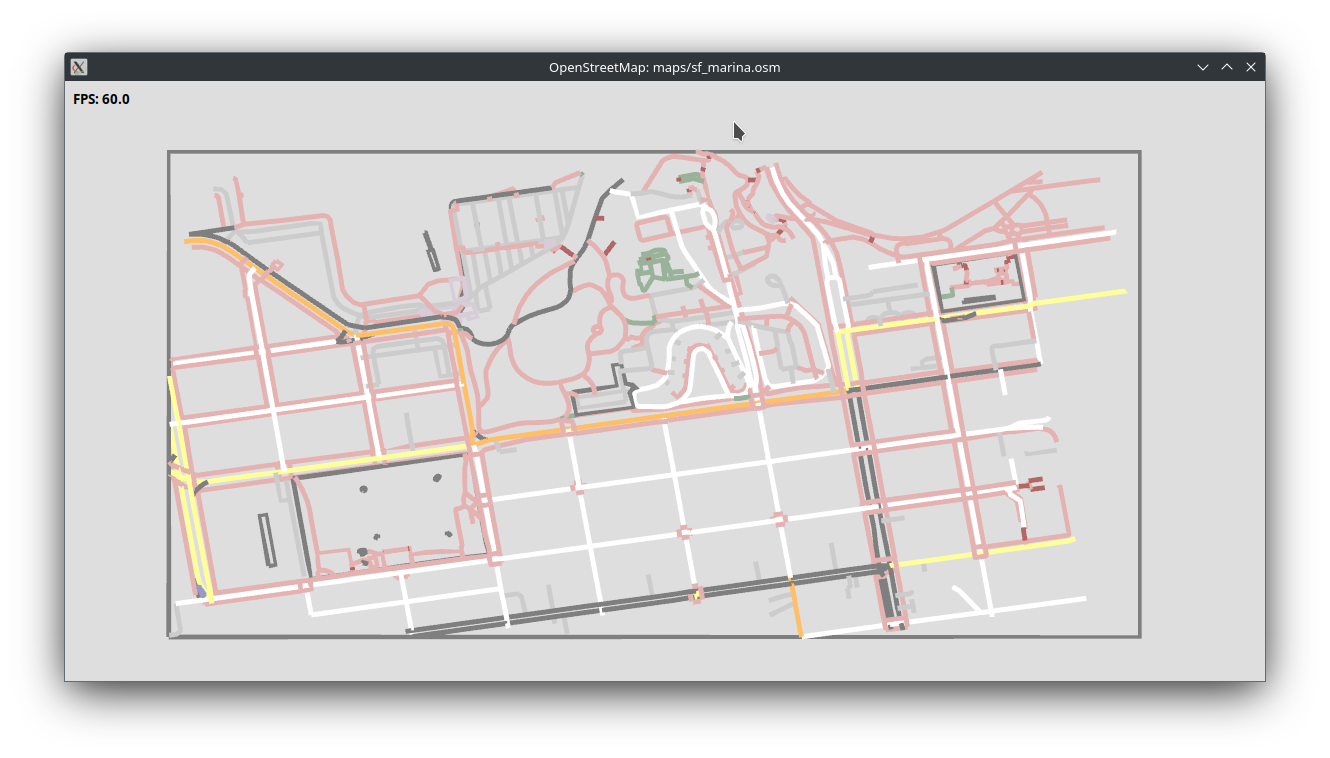
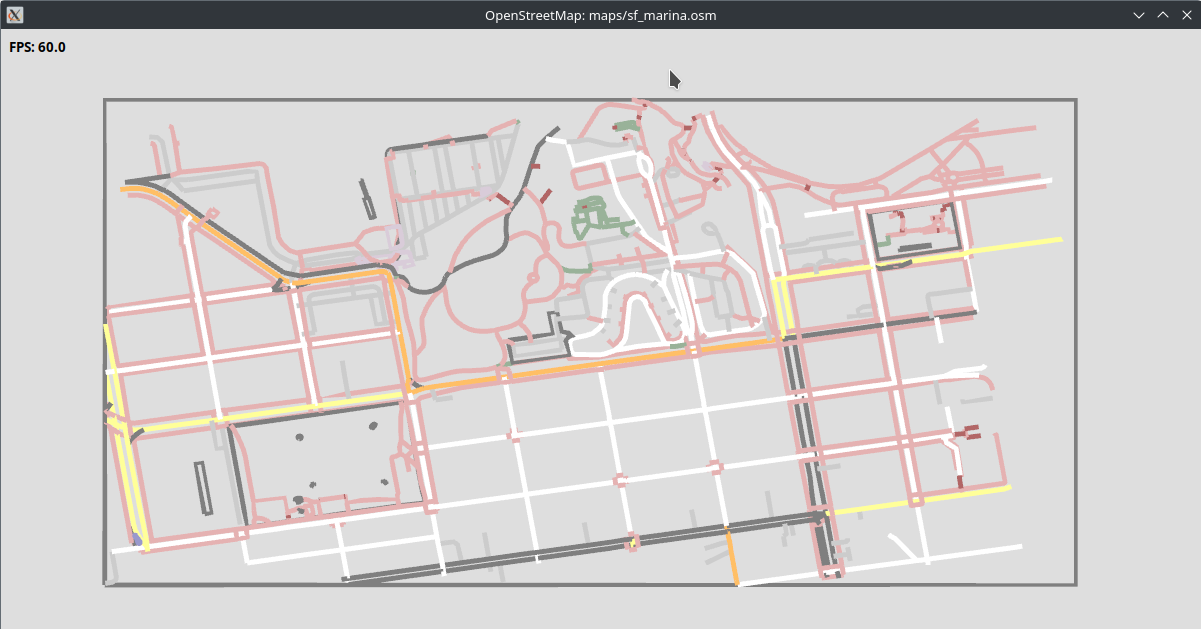
Rework the WebXR case study: copy, structure and images (#14)
* plans: start 260812_case_study_title_summary

* Rework the WebXR case study copy, structure and poster

Retitles the entry to "Robotics Data Replay in Augmented Reality", rewrites its
prose into lead/technical/examples paragraphs, and expands the highlights.

Collapses `summary` into `body: string[]` across all three case studies — with
the image now following the lead paragraph, `summary` was a second name for
`body[0]`. Rendered output is unchanged for every entry.

Adds the poster screenshot, cropped and re-encoded from a 1.7 MB PNG to a 74 KB
WebP.

* Crop black padding off the OSM screenshot

1330x758 to 1201x629, flush to the captured window frame. ImageMagick -trim
stops 9px in at any fuzz level because the window's drop shadow fades to black,
so the crop box came from a luminance profile instead.

---------

diff --git a/src/pages/CaseStudies.tsx b/src/pages/CaseStudies.tsx
@@ -5,17 +5,15 @@ interface CaseStudy {
   icon: LucideIcon;
   eyebrow: string;
   title: string;
-  /** Lead paragraph. */
-  summary: string;
-  /** Optional deeper technical paragraph. */
-  body?: string;
+  /** Prose paragraphs, rendered in order. The first is the lead; `image` follows it. */
+  body: string[];
   highlights: string[];
   tech: string[];
   repoUrl: string;
   demoUrl?: string;
   image?: string;
   imageAlt?: string;
-  /** Optional second image, shown after the technical body paragraph. */
+  /** Optional second image, shown after the last body paragraph. */
   bodyImage?: string;
   bodyImageAlt?: string;
 }
@@ -24,28 +22,33 @@ const caseStudies: CaseStudy[] = [
   {
     icon: Glasses,
     eyebrow: 'WebXR · Robotics · Meta Quest',
-    title: 'Robot Recordings in the Glasses',
-    summary:
-      'A WebXR app for Meta Quest that plays back Foxglove MCAP robot recordings in AR passthrough — scrub the timeline, walk around the robot, and grab the scene to reposition it in your room. It also records headset and controller poses back out to MCAP for analysis alongside the robot data.',
-    body:
-      'The hard part is throughput: these recordings are hundreds of megabytes, and a headset has a mobile GPU and a 72 Hz frame budget to protect. The reader streams MCAP chunks in a Web Worker with preloading, so decoding never blocks the render loop, and cloud recordings download through a Cloudflare Worker relay that fetches only the topics you selected and caches them on-device. ROS 1 and protobuf datasets both decode: a 486 MB quadruped recording plays back with the Spot URDF posed from /tf and /joint_states and five camera streams projected in 3D, and a 718 MB robot-arm recording opens on the headset in half a second. On desktop the app installs IWER over navigator.xr — chosen by session capability, never by hostname — so a visitor without a headset still gets a drivable demo instead of a dead button.',
+    title: 'Robotics Data Replay in Augmented Reality',
+    body: [
+      'A WebXR app for Meta Quest that plays back Foxglove robot recordings in AR passthrough — walk around the robot, scrub the timeline, and reposition the scene in your room. It is a direct overlay of robotic data on top of reality.',
+      'The hard part is throughput: these recordings run to hundreds of megabytes, while the headset brings a mobile GPU, limited bandwidth, and a 72 Hz frame budget that cannot slip without making the viewer queasy. Chunks decode off the render loop, so frame rate never pays for the data, and only the topics you select are pulled from the Foxglove server and cached on-device. On desktop the app runs in an emulated AR environment, so anyone without a headset can try it.',
+      'Known Examples: a quadruped — a 486 MB ROS 1 recording of Boston Dynamics’ Spot, its URDF posed live from transform frames while five camera streams project into the scene around it; autonomous manipulation — Foxglove’s 718 MB protobuf DROID arm dataset, which opens on the headset in half a second and renders its 27 transform frames in AR; and a dancing humanoid, playing back in the same viewer with no per-dataset code.',
+    ],
     highlights: [
-      'In-headset AR playback of Foxglove MCAP recordings with timeline scrubbing and grab-to-move alignment.',
-      'Streaming MCAP reader in a Web Worker with preload, keeping large files off the render thread.',
-      'Cloudflare Worker relay streams only the selected topics from Foxglove cloud storage, with on-device caching.',
-      'ROS 1 and protobuf decoding: URDF models posed from /tf and /joint_states, plus projected camera streams.',
-      'Emulated WebXR runtime (IWER) on desktop, so the deployed site is a working demo without hardware.',
+      'AR passthrough playback of Foxglove MCAP recordings, with timeline scrubbing and grab-to-move alignment for pinning the scene to a spot on the floor.',
+      'Streaming MCAP reader runs in a Web Worker with chunk preloading, so decoding a 700 MB recording never stalls the render loop.',
+      'A deployed Cloudflare Worker relay pulls only the selected topics out of Foxglove cloud storage — token-authenticated, with layouts and topic lists cached on-device for instant reopening.',
+      'Both MCAP encodings decode in-browser — ROS 1 and protobuf — with URDF models posed from /tf and /joint_states and camera images projected using Foxglove’s own camera model.',
+      'Frame-time readout in the in-headset HUD, so a performance regression is visible while wearing the device rather than after the fact.',
+      'Desktop visitors get an emulated WebXR runtime (IWER) installed over navigator.xr — selected by session capability rather than hostname, so a real headset is never emulated over.',
     ],
     tech: ['TypeScript', 'React Three Fiber', '@react-three/xr', 'WebXR', 'Foxglove MCAP', 'Cloudflare Workers', 'Vite'],
     repoUrl: 'https://github.com/benbatya/webxr-robo-viz',
     demoUrl: 'https://benbatya.github.io/webxr-robo-viz/',
+    image: '/case-studies/webxr_poster.webp',
+    imageAlt: 'In-headset capture of a Spot recording replayed in AR: the quadruped drawn with per-link transform axes, a projected camera stream beside it, and floating Transforms and playback panels.',
   },
   {
     icon: Map,
     eyebrow: 'Graphics · GPU Compute',
     title: 'Rendering OpenStreetMap on the GPU',
-    summary:
+    body: [
       'A C++/OpenGL renderer that loads large OpenStreetMap extracts and draws them efficiently by pushing geometry generation onto the GPU. A compute shader extrudes road "ways" into triangulated meshes in parallel, so even large maps render smoothly without a CPU bottleneck.',
+    ],
     highlights: [
       'Compute shader extrudes OSM ways into triangle meshes directly on the GPU.',
       'Two-stage parsing with libosmium: scan ways first, then load only the nodes they reference — keeping memory low for large extracts.',
@@ -60,8 +63,9 @@ const caseStudies: CaseStudy[] = [
     icon: Zap,
     eyebrow: 'Embedded · Energy Monitoring',
     title: 'Solar Time-of-Use Metering',
-    summary:
+    body: [
       'A home energy-monitoring app that logs and displays Time-of-Use statistics for a solar (PV) home. It runs continuously on a Raspberry Pi, polling a Shelly 3EM energy meter over the local network to gather power-usage data for tracking and billing.',
+    ],
     highlights: [
       'Polls a Shelly 3EM three-phase meter over the LAN for live power readings.',
       'Runs headless on a Raspberry Pi, with start/stop/deploy scripts for continuous operation.',
@@ -74,10 +78,10 @@ const caseStudies: CaseStudy[] = [
     icon: Sparkles,
     eyebrow: 'Rust · WebAssembly · WebGL',
     title: 'Deep-Zoom Fractal Explorer',
-    summary:
+    body: [
       'An interactive Julia-set explorer that stays razor-sharp at extreme zoom depths — far beyond where ordinary double-precision math falls apart. The heavy math runs in Rust compiled to WebAssembly, while rendering happens per-pixel on the GPU through WebGL2.',
-    body:
       'Precision is the whole game. The view center is stored in arbitrary-precision floats (dashu-float’s DBig), and the working precision scales automatically with zoom depth — roughly 20 digits at the default view, growing past 100 digits at a scale of 1e-100, with extra guard bits to absorb rounding. Each frame, Rust computes a single high-precision "reference orbit" from the center. The GPU then renders every pixel using perturbation theory: rather than iterating each pixel at full precision, the fragment shader tracks only a tiny f32 delta relative to the reference orbit, advancing it with the recurrence deltaᵢ₊₁ = 2·Zᵢ·deltaᵢ + deltaᵢ². Because every visible pixel sits close to the reference, that delta stays comfortably within f32 range no matter how deep you zoom. The orbit is shared with the GPU zero-copy through WASM linear memory, and zoom is cursor-anchored with all coordinate math done in DBig, so sub-pixel accuracy holds at any depth.',
+    ],
     highlights: [
       'Arbitrary-precision (DBig) center coordinates; working precision scales with zoom depth.',
       'One high-precision reference orbit per frame, computed in Rust/WASM.',
@@ -126,7 +130,7 @@ export default function CaseStudies() {
                   {study.eyebrow}
                 </p>
                 <h2 className="mt-2 font-display text-2xl font-bold text-white">{study.title}</h2>
-                <p className="mt-3 leading-relaxed text-slate-400">{study.summary}</p>
+                <p className="mt-3 leading-relaxed text-slate-400">{study.body[0]}</p>
                 {study.image && (
                   <img
                     src={study.image}
@@ -135,9 +139,11 @@ export default function CaseStudies() {
                     className="mt-5 w-full rounded-xl border border-white/10 bg-white/5"
                   />
                 )}
-                {study.body && (
-                  <p className="mt-4 leading-relaxed text-slate-400">{study.body}</p>
-                )}
+                {study.body.slice(1).map((paragraph) => (
+                  <p key={paragraph} className="mt-4 leading-relaxed text-slate-400">
+                    {paragraph}
+                  </p>
+                ))}
                 {study.bodyImage && (
                   <img
                     src={study.bodyImage}

diff --git a/.plans/260812_case_study_title_summary.md b/.plans/260812_case_study_title_summary.md
@@ -1,0 +1,118 @@
+# Rework the WebXR case study: copy, structure, and poster image
+
+Follow-up to PR #13, which added the WebXR Robo Viz entry to the Case Studies page. This
+branch rewrites that entry's copy end to end, gives it a screenshot, and simplifies the
+`CaseStudy` shape that the rewrite exposed as redundant. It also crops the black padding
+off the pre-existing OSM screenshot — unrelated to the WebXR entry, but the same page and
+the same kind of fix, so it rides along rather than taking its own branch.
+
+## What shipped
+
+### The entry's copy
+
+- **Title** → `Robotics Data Replay in Augmented Reality`.
+- **Lead paragraph** → user-supplied: the app plays back Foxglove robot recordings in AR
+  passthrough — walk around the robot, scrub the timeline, reposition the scene in your
+  room; a direct overlay of robotic data on top of reality.
+- **Technical paragraph** → user-supplied and revised across several passes. It now states
+  outcomes rather than mechanisms: the throughput constraint (hundreds of megabytes against
+  a mobile GPU, limited bandwidth, and a 72 Hz budget that cannot slip without making the
+  viewer queasy), decoding staying off the render loop, and only the selected topics being
+  fetched and cached. Naming the Web Worker reader, the Cloudflare relay, IWER and
+  `navigator.xr` moved out of the prose and into the highlights.
+- **"Known Examples" paragraph** → the three datasets, each with the detail the
+  `webxr-robo-viz` README supports: the quadruped (486 MB ROS 1 Spot recording, URDF posed
+  from transform frames, five camera streams projected), autonomous manipulation (Foxglove's
+  718 MB protobuf DROID arm dataset, opening in half a second, 27 transform frames), and a
+  dancing humanoid. Written as semicolon-separated noun phrases, which lets the humanoid sit
+  in the list without inventing a verb-bearing claim about it.
+- **Highlights** → five to six, each carrying more detail, with the in-HUD frame-time
+  readout added from the README. The division of labour on the card is now deliberate: prose
+  carries capability, highlights carry implementation.
+
+### Structural changes to `CaseStudies.tsx`
+
+Two changes, each forced by a copy decision rather than pursued for their own sake:
+
+- **`body: string` → `body: string[]`**, rendered one `<p>` per entry. The examples had to
+  become a second paragraph, and embedding `\n\n` in a single string does not produce one.
+- **`summary` removed from the interface.** With this entry's lead folded into `body`, and
+  with `image` made to follow the *lead paragraph* rather than the `summary` field
+  specifically, `summary` was just a second name for `body[0]` — same styling, same
+  position, and no other consumer in the repo. All three studies now carry a single
+  `body: string[]`: `body[0]` leads, `image` follows it, `body.slice(1)` follows the image.
+
+Both changes touch the OSM, solar and fractal entries — their summaries became `body[0]`.
+The rendered output for all three is unchanged; this was verified by reading the render
+order, not just by the build passing.
+
+### The poster image
+
+`public/case-studies/webxr_poster.webp` — an in-headset capture of the Spot recording in
+AR, with per-link transform axes, a projected camera stream, and the floating
+Transforms/playback panels. The alt text describes what is actually in the frame, written
+after opening the image rather than guessed from the filename.
+
+Supplied as a 1.7 MB PNG, 1910×1008, letterboxed. ImageMagick's trim bounding box (`-fuzz`
+at 1%, 2% and 5% all agreed within a few pixels) gave the content region as
+1797×839+55+169; cropped there and encoded WebP q85 at full resolution it is **74 KB, a 96%
+reduction**, in line with the other case-study images (75–232 KB) and still sharp enough to
+read the Transforms panel labels. Full resolution was kept rather than downscaling to
+1600 px — the saving was ~13 KB and full res holds up better on a retina display.
+
+The original PNG was deleted from `public/`: Vite copies that directory verbatim into
+`dist/`, so leaving it would have deployed 1.7 MB nobody requests. It was never committed,
+so a copy was left in the session scratchpad as `webxr_poster_original.png` and the user was
+told it lives nowhere else.
+
+### The OSM screenshot
+
+`public/case-studies/osm-rendering.png` was cropped to remove the black padding around the
+captured window: 1330×758 → 1201×629, 116 KB → 105 KB. ImageMagick's `-trim` was no use
+here — the window has a soft drop shadow fading to black, so fuzz-trim stopped 9 px in at
+every threshold from 1% to 12%. The window rectangle was found instead from a luminance
+profile (first and last row/column exceeding a brightness threshold, stable across
+thresholds 60–150), giving 1201×629+64+52. Left as PNG, since only a crop was asked for.
+
+## Decisions and corrections
+
+- **A bug from #13 was fixed here.** The title on `main` read "Robot Recordings in the
+  Glasses" — nonsense. A `replace_all` rename of the lucide icon (`Headset` → `Glasses`,
+  because lucide's `Headset` is the headphones-with-mic support icon) had also rewritten the
+  title string, which contained the same word. Retitling removes the wording entirely, so no
+  separate fix was needed. Lesson: scope a `replace_all` to a token that cannot appear in
+  prose.
+- **User copy is used verbatim except for outright errors**: `ontop` → `on top of`,
+  `nausa` → `nausea`, `the app run` → `the app runs`, `FoxGlove` → `Foxglove` (the product's
+  own capitalisation, matching the rest of the page). "Known Examples" keeps the requested
+  capitalisation even though the page is otherwise sentence case.
+- **Dev tooling stays off the card.** An adb-monitoring highlight was drafted and cut at the
+  user's direction: it describes the development workflow, not the shipped application. The
+  `adb reverse` clause came out of the IWER bullet for the same reason; what survives is that
+  the runtime is chosen by session capability rather than hostname, so a real headset is
+  never emulated over.
+- The examples spent a pass as individual highlight bullets before becoming a paragraph.
+  That is why the format labels (ROS 1, protobuf) now sit with the examples that use them,
+  leaving the decoding highlight free to state the general capability instead of repeating
+  Spot's specifics.
+
+## Verification
+
+- `npx tsc --noEmit` — clean, after every edit.
+- `npm run build` — succeeds; `dist/case-studies/` contains the WebP and no stray PNG.
+- Vite dev server used throughout to view the card as it changed.
+- The cropped and re-encoded poster was opened and inspected, not just measured, to confirm
+  the crop clipped no content and q85 kept the panel text legible.
+
+## Open items
+
+- The dancing humanoid is the thin item in the examples paragraph: unlike the quadruped and
+  the DROID arm it is not in the README, so there are no size, encoding or frame-count
+  details to give it, and it is the one claim on the card not verified against a source.
+  Details from the author would even it up.
+- This entry is now the longest on the page — three paragraphs, a screenshot and six
+  highlights, against one paragraph and three or four bullets for the others. Reasonable for
+  the lead item, but worth an eye on the layout.
+- The fractal images are still PNG/JPEG at 75–232 KB, as is the newly cropped OSM
+  screenshot. The same WebP treatment would shave a couple of hundred KB off the page;
+  pre-existing, so left alone.
